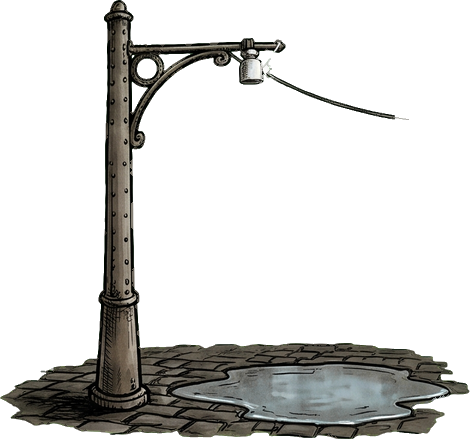
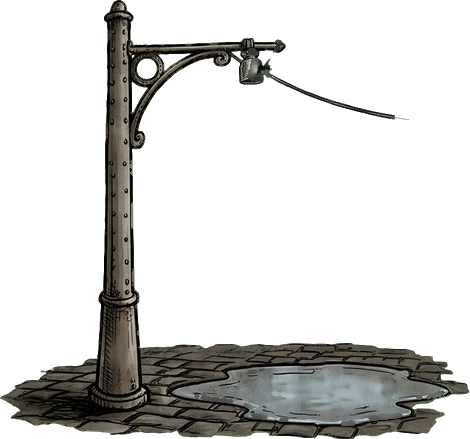
Third rail hazard (art_src 244), camera: platform snapping, cue focus, opening look along the way up; telemetry table + crash.js events, haptics JS; gen/tools/heatmap.py
Claude-Session: https://claude.ai/code/session_01C3g9ecAshhpCZ9oMebuAUq

diff --git a/gen/deploy/crash.js b/gen/deploy/crash.js
@@ -81,6 +81,52 @@
     if (/SCRIPT ERROR|Failed loading|out of memory|OOM|Aborted/i.test(m)) send('error', { message: m.substr(0, 2000) });
     return err.apply(console, arguments);
   };
+  // Anonymous play data (telemetry, user's task list 17. 11.): where players die, which maps they finish, where they
+  // leave. One row per event in public.ashes_events (anon can only insert). No personal data: a random id per page
+  // load, the build, the map, a position. Off when the setting "SEND ANONYMOUS PLAY DATA" is off (ashes_telemetry=0).
+  var SESSION = Math.random().toString(36).substr(2, 10);
+  var EV_URL = 'https://mpxfppuigwvwlfhsnbgr.supabase.co/rest/v1/ashes_events';
+  var evSent = 0;
+  var lastMap = '', lastX = 0;
+  window.ashesEvent = function (kind, map, x, y, data) {
+    try {
+      if (localStorage.getItem('ashes_telemetry') === '0' || evSent >= 200) return;
+      evSent++;
+      if (map) { lastMap = String(map); lastX = +x || 0; }
+      fetch(EV_URL, { method: 'POST', keepalive: true, headers: { 'apikey': KEY, 'Authorization': 'Bearer ' + KEY,
+        'Content-Type': 'application/json', 'Prefer': 'return=minimal' },
+        body: JSON.stringify({ kind: kind, build: BUILD, session: SESSION, map: String(map || '').substr(0, 60),
+          x: +x || 0, y: +y || 0, data: data || null }) }).catch(function () {});
+    } catch (e) {}
+  };
+  window.ashesWhere = function (map, x) { lastMap = String(map || ''); lastX = +x || 0; };   // (every few seconds: where a quit happens)
+  window.addEventListener('pagehide', function () { if (lastMap) window.ashesEvent('quit', lastMap, lastX, 0, null); });
+  // Haptics (task 9, research ch13): a short buzz on a shot, a hit, a kill, a hard landing, a blast. Android: the
+  // Vibration API. iPhone Safari (17.4+) has none, but toggling a hidden <input type="checkbox" switch> ticks the
+  // Taptic Engine - only inside a touch handler, so a buzz the game asks for is played on the next touch (the
+  // player's thumbs are on the glass all the time). Off when the setting VIBRATION is off (ashes_haptics=0).
+  var buzzWant = 0, buzzAt = 0, sw = null;
+  function hapticsOn() { try { return localStorage.getItem('ashes_haptics') !== '0'; } catch (e) { return true; } }
+  window.ashesBuzz = function (ms) {
+    if (!hapticsOn()) return;
+    if (navigator.vibrate) { try { navigator.vibrate(Math.max(5, Math.min(60, ms | 0))); } catch (e) {} return; }
+    buzzWant = ms; buzzAt = Date.now();
+  };
+  function tick() {
+    if (!buzzWant || Date.now() - buzzAt > 250) { buzzWant = 0; return; }
+    buzzWant = 0;
+    try {
+      if (!sw) {
+        var lab = document.createElement('label');
+        lab.style.cssText = 'position:fixed;left:-100px;top:-100px;width:1px;height:1px;opacity:0;pointer-events:none';
+        sw = document.createElement('input'); sw.type = 'checkbox'; sw.setAttribute('switch', '');
+        lab.appendChild(sw); document.body.appendChild(lab); sw._lab = lab;
+      }
+      sw._lab.click();
+    } catch (e) {}
+  }
+  document.addEventListener('touchstart', tick, { passive: true, capture: true });
+  document.addEventListener('touchend', tick, { passive: true, capture: true });
   window.addEventListener('load', function () {
     var cv = document.getElementById('canvas');
     if (cv) cv.addEventListener('webglcontextlost', function () { crumb('WEBGL CONTEXT LOST'); send('error', { message: 'webgl context lost' }); });

diff --git a/gen/street_props.py b/gen/street_props.py
@@ -49,20 +49,26 @@ if __name__ == "__main__":
 # the same place in each. Keyed and cut into six equal cells, all cropped by the SAME box (the union over the frames,
 # aligned on the cells' foot) so the thing does not jump: art/props/hk_<kind>_anim.png, a strip of 6 cells
 # (props.gd splits it by width / 6; ANIM_W there = the thing's width share of a cell). A grid sheet (rows > 1) reads row by row.
-ANIMS = {"hydrant": ("237.jpg", 1), "kegs": ("238.jpg", 2), "steampipe": ("239.jpg", 2), "windlass": ("241.jpg", 2), "trolley": ("242.jpg", 2)}   # (file, rows of 6 frames)
-SHRINK = {"hydrant": 0.72, "kegs": 0.5, "windlass": 0.5, "trolley": 0.6}
+ANIMS = {"hydrant": ("237.jpg", 1), "kegs": ("238.jpg", 2), "steampipe": ("239.jpg", 2), "windlass": ("241.jpg", 2), "trolley": ("242.jpg", 2),
+         "thirdrail": ("244.jpg", 4, 8, [0, 1, 2, 4, 5, 7])}   # (file, rows(, frames drawn, the six used))   # (file, rows of 6 frames)
+SHRINK = {"hydrant": 0.72, "kegs": 0.5, "windlass": 0.5, "trolley": 0.6, "thirdrail": 0.8}
 # The trolley wire's far piece wanders a little near the cell's edge: cut it off at the same x in every cell (dark
 # pixels only, in a band round it, so smoke there stays), the game draws it on from there (props.gd TROLLEY_WIRE).
 WIRE_CUT = {"trolley": (705, 140, 240)}   # x, rows y0..y1 in the cell, full size   # drawn bigger than shown: a hydrant cell is ~360 px wide on the street
-def anim(kind, f, n=6, rows=1):
+DESPILL = {"thirdrail"}
+def anim(kind, f, n=6, rows=1, pick=None):
     a = np.asarray(Image.open(os.path.join(SRC, f)).convert("RGB")).astype(float)
     r, g, b = a[..., 0], a[..., 1], a[..., 2]
     alpha = ndimage.grey_opening(1 - np.clip((g - np.maximum(r, b) - 40) / 50, 0, 1), size=(3, 3))
     a[..., 1] -= np.maximum(g - np.maximum(r, b), 0) * (1 - alpha * 0.5)
+    if kind in DESPILL:   # smoke and haze are see-through: what is left green in them goes grey
+        a[..., 1] = np.minimum(a[..., 1], (a[..., 0] + a[..., 2]) / 2 + 6)
     rgba = np.dstack([np.clip(a, 0, 255), alpha * 255]).astype(np.uint8)
     cols = n // rows
     W, H = rgba.shape[1] // cols, rgba.shape[0] // rows
     cells = [rgba[(i // cols) * H:(i // cols + 1) * H, (i % cols) * W:(i % cols + 1) * W].copy() for i in range(n)]
+    if pick:
+        cells = [cells[i] for i in pick]
     ys, xs = np.where(np.max([c[..., 3] for c in cells], axis=0) > 20)
     x0, x1, y0, y1 = xs.min(), xs.max() + 1, ys.min(), ys.max() + 1
     if kind in WIRE_CUT:   # (measured on the crop, the same in every cell)
@@ -79,15 +85,17 @@ def anim(kind, f, n=6, rows=1):
 
 
 if __name__ == "__main__":
-    for kind, (f, rows) in ANIMS.items():
+    for kind, (f, rows, *more) in ANIMS.items():
         if os.path.exists(os.path.join(SRC, f)):
-            anim(kind, f, 6, rows)
+            anim(kind, f, more[0] if more else 6, rows, more[1] if more else None)
     if os.path.exists(os.path.join(SRC, "238.jpg")):
         kegs_still()
     if os.path.exists(os.path.join(SRC, "241.jpg")):
         still("windlass")
     if os.path.exists(os.path.join(SRC, "242.jpg")):
         still("trolley")
+    if os.path.exists(os.path.join(SRC, "244.jpg")):
+        still("thirdrail")
 
 
 # The kegs on the street are the animation's first frame (user 17. 11.: the stack must not change when shot), its
@@ -124,7 +132,7 @@ def still(kind):
         sizes = ndimage.sum(np.ones_like(lab), lab, range(1, n + 1))
         c[..., 3] = np.where(lab == np.argmax(sizes) + 1, c[..., 3], 0)
     r, g, b = [c[..., i].astype(float) for i in range(3)]
-    spark = ndimage.binary_dilation((((r > 170) & (g > 150) & (b < 0.7 * g)) | ((g > r + 18) & (g > b + 18))) & (c[..., 3] > 0), iterations=2) & (c[..., 3] > 0)   # (yellow spark, green spill)
+    spark = ndimage.binary_dilation((((r > 170) & (g > 150) & (b < 0.7 * g)) | ((g > r + 18) & (g > b + 18)) | ((r + g + b) / 3 > 215)) & (c[..., 3] > 0), iterations=2) & (c[..., 3] > 0)   # (yellow or white spark, green spill)
     ok = (~spark) & (c[..., 3] > 0)
     for i in range(3):
         ch = c[..., i].astype(float)

diff --git a/gen/tools/heatmap.py b/gen/tools/heatmap.py
@@ -1,0 +1,71 @@
+"""Telemetry pictures (task 8, research ch14): where players die along each map, and how far they get.
+
+The rows come from Supabase public.ashes_events (anon may only insert; READ ONLY through the Supabase MCP, no key in the
+repo). In a Claude session run
+    select kind, map, x, y, build, session, data from ashes_events where kind <> 'test' order by id
+and save the result as JSON (a list of rows) to _shots/events.json, then:
+    py -3 gen/tools/heatmap.py [_shots/events.json]
+Out: _shots/heatmap.png - one strip per map (map order of the campaign): deaths as a heat band along its length
+(x in world px, 0 .. the map's end from levels.gd), map_done and quit counts at the side; and the funnel: how many
+sessions reached / finished each map.
+"""
+import json, os, re, sys
+from collections import defaultdict
+import numpy as np
+from PIL import Image, ImageDraw
+
+sys.path.insert(0, os.path.join(os.path.dirname(os.path.abspath(__file__)), ".."))
+from paths import REPO
+
+
+def map_lengths():
+    """name -> its end x, in the campaign's order (levels.gd)."""
+    src = open(os.path.join(REPO, "levels.gd"), encoding="utf-8").read()
+    out = {}
+    for m in re.finditer(r'"name": "([^"]+)"[^\n]*?"end": ([0-9.]+)', src):
+        out.setdefault(m.group(1), float(m.group(2)))
+    return out
+
+
+def main(path):
+    rows = json.load(open(path, encoding="utf-8"))
+    ends = map_lengths()
+    deaths, done, quits, reached = defaultdict(list), defaultdict(int), defaultdict(int), defaultdict(set)
+    for r in rows:
+        m = r.get("map") or "?"
+        reached[m].add(r.get("session"))
+        if r["kind"] == "death":
+            deaths[m].append(float(r.get("x") or 0.0))
+        elif r["kind"] == "map_done":
+            done[m] += 1
+        elif r["kind"] == "quit":
+            quits[m] += 1
+    names = [n for n in ends if n in reached] + sorted(n for n in reached if n not in ends)
+    W, ROW, LEFT = 1400, 46, 210
+    img = Image.new("RGB", (W, 40 + ROW * max(1, len(names))), (24, 22, 20))
+    d = ImageDraw.Draw(img)
+    d.text((10, 10), f"deaths along each map  ({len(rows)} events, {len({r.get('session') for r in rows})} sessions)", fill=(230, 220, 200))
+    for i, n in enumerate(names):
+        y = 40 + i * ROW
+        end = ends.get(n, max(deaths[n] + [1.0]))
+        hist, _ = np.histogram(deaths[n], bins=120, range=(0, end))
+        top = max(1, hist.max())
+        for k, v in enumerate(hist):
+            x0 = LEFT + k * (W - LEFT - 160) / 120
+            heat = v / top
+            d.rectangle([x0, y + 6, x0 + (W - LEFT - 160) / 120, y + ROW - 10],
+                        fill=(int(60 + 190 * heat), int(50 + 40 * (1 - heat)), int(40 * (1 - heat))))
+        d.text((10, y + 14), n[:24], fill=(230, 220, 200))
+        d.text((W - 150, y + 2), f"died {len(deaths[n])}", fill=(220, 120, 100))
+        d.text((W - 150, y + 15), f"done {done[n]}  quit {quits[n]}", fill=(180, 200, 170))
+        d.text((W - 150, y + 28), f"players {len(reached[n])}", fill=(160, 160, 160))
+    out = os.path.join(REPO, "_shots", "heatmap.png")
+    img.save(out)
+    print("funnel (players reaching each map -> finishing it):")
+    for n in names:
+        print(f"  {n:24s} {len(reached[n]):4d} -> {done[n]:4d}   deaths {len(deaths[n])}  quits {quits[n]}")
+    print(out)
+
+
+if __name__ == "__main__":
+    main(sys.argv[1] if len(sys.argv) > 1 else os.path.join(REPO, "_shots", "events.json"))

diff --git a/gen/levels.py b/gen/levels.py
@@ -327,6 +327,7 @@ def chunk(name, hard, rng=None):
         c.box("stack", 1300).hint(800, "JUMP INTO THE STACK, JUMP AGAIN TO KICK OFF IT")   # the wall kick (ch II stunt)
         c.thing("windlass", 8500).foe(9150).hint(7900, "SHOOT THE WINDLASS")   # the docks' anchor windlass (ch II hazard)
         c.thing("trolley", 14600).foe(15300).hint(14000, "SHOOT THE INSULATOR")   # the trolley wire into a puddle (ch III hazard)
+        c.thing("thirdrail", 22300).foe(23000).hint(21700, "SHOOT THE JUNCTION BOX")   # the third rail (ch III hazard)
         c.hoists.append(19400)   # the hoist rope: the warehouse near the end of the lab street (before the flat)
     elif name == "stairs_up":   # the end of the platform: the stairs up to the mezzanine, the way out
         k = -KITS["mezz"]["y"] / (STAIR_FOOT[1] - STAIR_TOP[1])
@@ -377,7 +378,7 @@ def chunk(name, hard, rng=None):
     # ---- underground --------------------------------------------------------------------------------
     elif name == "train_platform":   # along the tracks under the platform edge; a train roars by on the far rails
         c = (Chunk(2400).box("drum", 250).box("crate_long", 1100).foe(700).foe(1650, kind="shotgun" if hard > 0.5 else "post").foe(2250)
-             .event("train_pass", 300))
+             .event("train_pass", 300).thing("thirdrail", 1480))   # the third rail behind the two by the far end (ch III hazard, art_src 244)
     elif name == "cityhall":   # the closed station: chandeliers, boarded booths, rain through the skylight
         c = Chunk(2600).room(0, 2600, "cityhall").lamp(700).lamp(1800)
         furnish(c, "cityhall", rng, ["post", "tommy" if hard > 0.4 else "post", "post"], flask=True)
@@ -613,7 +614,7 @@ def check_props(m):
     return errs
 
 
-THING_W = 960   # = props.gd THING_W (the widest: the trolley pole; the windlass 520)
+THING_W = 1300   # = props.gd THING_W (the widest: the third rail; the trolley pole 960, the windlass 520)
 def cover_men(m, mp):
     """Men who wait for Frank in the open street would just be targets (2026-11-16): about half of them
     get something to stand behind, a crate or a drum on their side of the fight, a step in front of

diff --git a/gen/kit.py b/gen/kit.py
@@ -26,6 +26,7 @@ KINDS = {
     "steampipe": {"shot": True,  "floor": None,     "depth": 0.0},
     "windlass":  {"shot": True,  "floor": None,     "depth": 0.01},   # free-standing (levels "things"), docks
     "trolley":   {"shot": True,  "floor": None,     "depth": 0.0},    # free-standing: a trolley pole over a puddle (ch III)
+    "thirdrail": {"shot": True,  "floor": None,     "depth": 0.0},    # free-standing: the subway's third rail and its junction box (ch III)
 }
 
 # The chapter I modular street (art_src 228-236): the same dark party wall down both edges.

diff --git a/HANDOFF.md b/HANDOFF.md
@@ -408,3 +408,10 @@ Read `.claude/skills/ashes-znalosti/SKILL.md` first (stable rules + topic index,
 - Washing line: gen/kit.py hk_tailor "lines" (top landing 2290,389 -> window pulley 2830,600) -> ropes "wash" -> main.gd a zip (his hands on it, no hook), laundry pieces (art_src 243 -> art/props/laundry_0..8, gen/street_props.py cut_set) pinned along it, torn off and fluttering down as he passes. Every chapter I map with the tailor's fire escape has one. `--test=wash --sandbox=1`.
 - Bar slide: floor style "bar" (invisible: the painted counter is the floor) on the Blue Note boss room's bar (room x = px*0.75 + 262, y -305) and in the lab's new club room (lab fixed + "club"). A dive on the bar = straight onto his back skidding (glide friction 220 instead of 1500), glass shattering, 0.6 s free slow, men in his way knocked down; off the end he flies on flat out (move_state dive). A dive landing on it does not roll. `--test=barslide --sandbox=1`.
 - Stunt list left: third rail, jump onto the moving El.
+
+## (39) Third rail (ch III hazard), Gemini watermark check, 2026-11-17
+- art_src 244 (Gemini drew 8 frames, 2 cols x 4 rows, orthographic after two tries in perspective): gen/street_props.py ANIMS entries may carry (frames drawn, the six used); DESPILL greys the green left in smoke; still() also fills white spark pixels (the trolley's insulator went grey with it - fine).
+- props.gd `_shot_thirdrail`: the junction box bursts, arcs along the rail 2 s kill men within RAIL_SPAN. In every train_platform chunk (14TH STREET x2, THE TUNNELS, THE CATACOMBS) and the TEST LAB (after the hoist).
+- Gemini in a NEW chat refuses to draw ("no image tool") even with "Vytvořit obrázek" on: keep using the "Noir Beer Barrel Sprite Prompt" chat; a result can appear only after reloading the page.
+- Watermark check (task 6): bottom-right 160 px of all 253 art_src images looked at side by side (_shots/wm_corners.png): no visible Gemini sparkle anywhere. SynthID is invisible and stays.
+- Stunt list left: jump onto the moving El (big: a train passing below a platform/roof to land on and ride).
